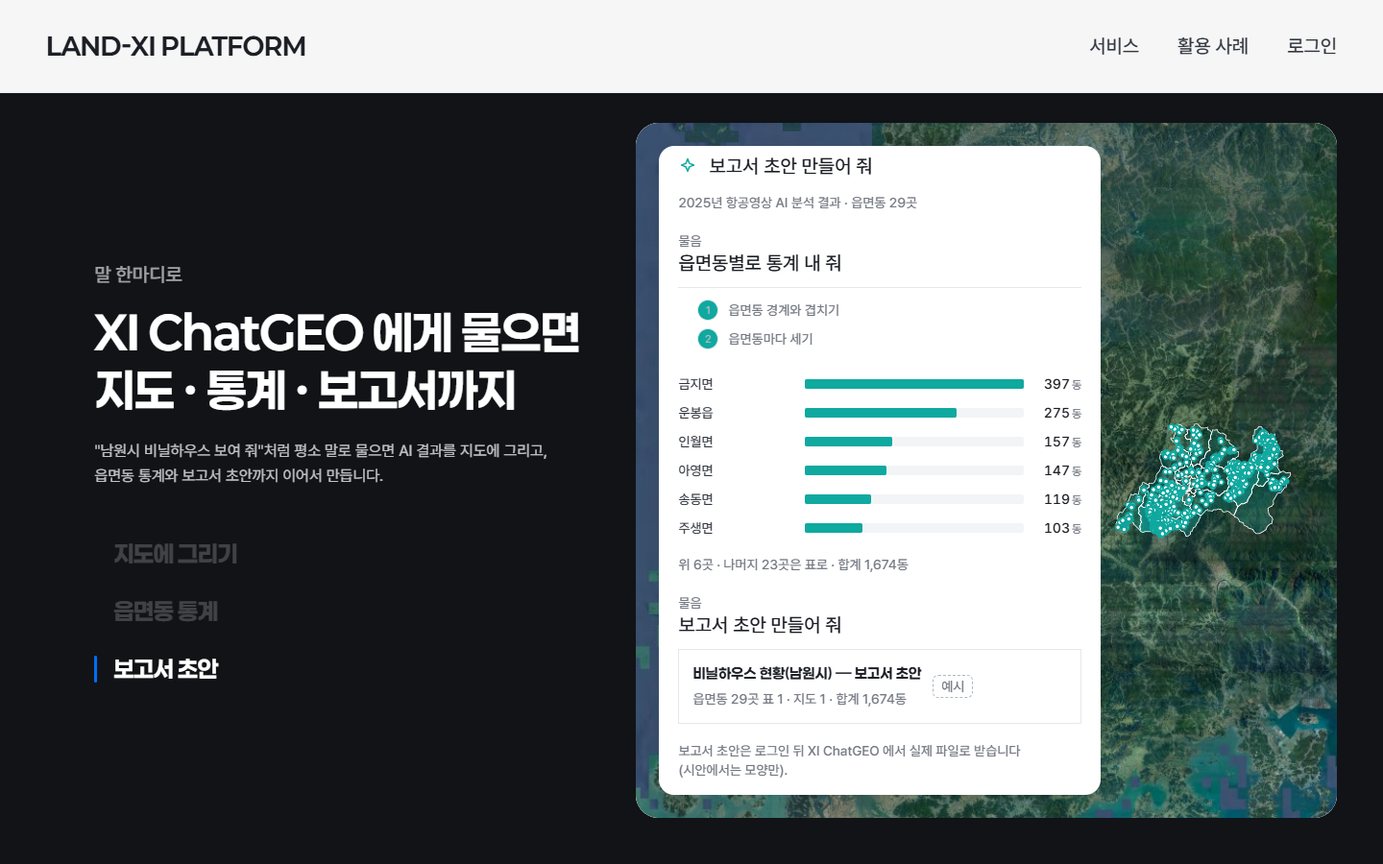
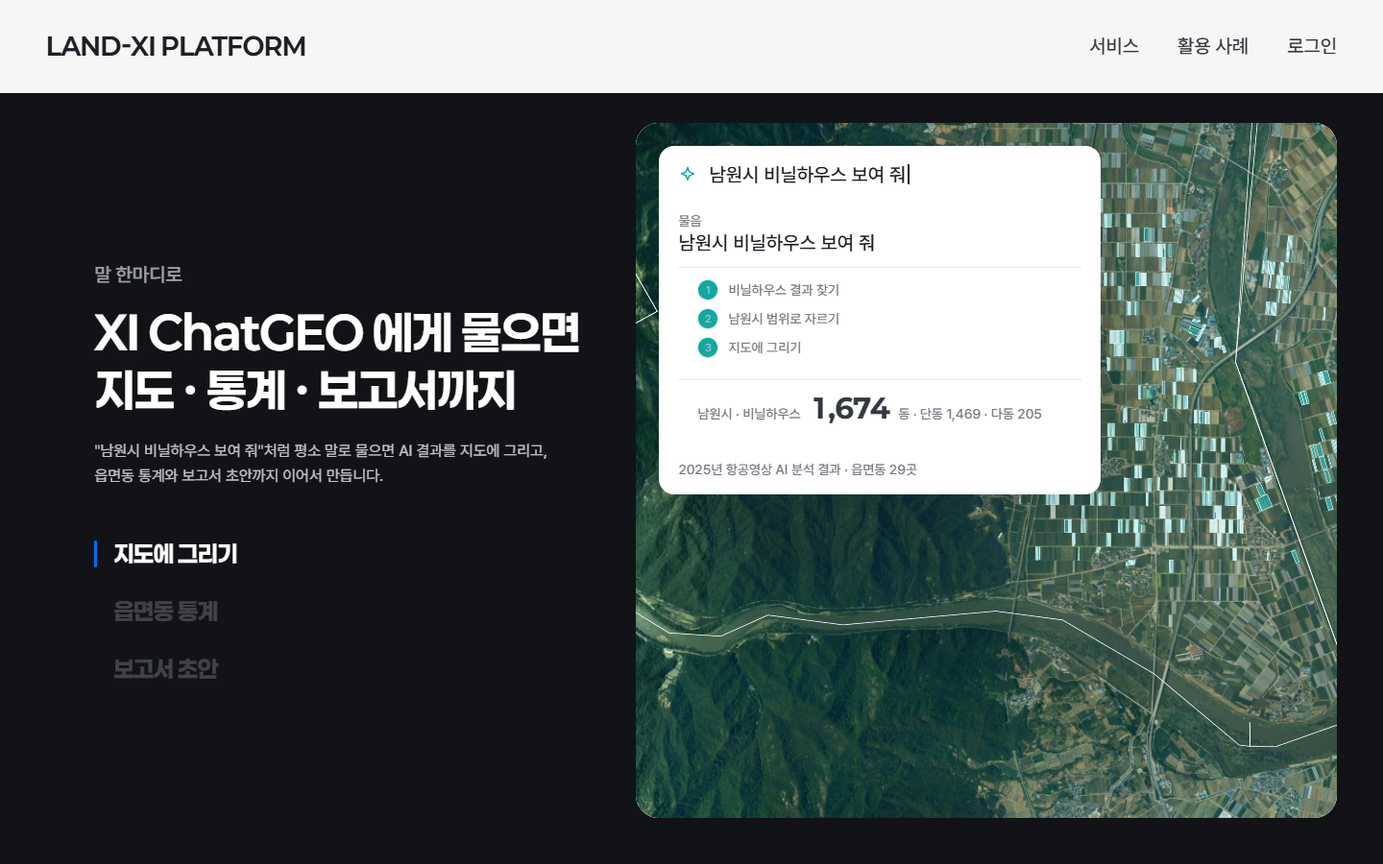
메인 장면 확인 페이지 새 판(셋째 문구 셋 · 넷째 점 빼기)
Claude-Session: https://claude.ai/code/session_012dngviZxpCDduyLESvgdha

Changed region(s): [[0.4375, 0.1244, 0.9688, 0.9644], [0.0625, 0.7467, 0.1562, 0.8089], [0.0625, 0.6222, 0.1875, 0.6533]]

diff --git a/landxi/proto/review/confirm/mainch/index.html b/landxi/proto/review/confirm/mainch/index.html
@@ -48,10 +48,10 @@ footer input{flex:1;min-width:200px;font:15px Pretendard,sans-serif;padding:10px
 <body>
 <main class="w">
 <h1>메인 둘째 · 셋째 · 넷째 장면</h1>
-<p class="lead">움직이는 미리보기를 먼저 보세요: app.land-xi.dev/landxi/proto/review/main-ch1/?v=a (둘째 ⓐ) · ?v=b (둘째 ⓑ) · ?v=c2 (셋째) · ?v=c3 (넷째)</p>
+<p class="lead">셋째 장면은 새 문구 후보 셋, 넷째 장면은 점을 빼고 비닐하우스 면만. 미리보기: app.land-xi.dev/landxi/proto/review/main-ch1/?v=c2&w=1 (w=2 · w=3) · ?v=c3</p>
 <div class="how"><b>보는 법</b> — 항목마다 <b>지금</b>(무엇이 문제인지) · <b>제안</b>(바뀐 뒤) · <b>보는 곳</b>(캡처, 그리고 직접 열어 볼 주소·계정·누를 곳)이 있습니다. 캡처를 누르면 크게 열립니다.<br>
 <b>고르는 법</b> — 버튼을 누르고, 고칠 점이 있으면 한 줄 적어 주세요. 고른 것은 이 브라우저에 저장됩니다. 다 고르시면 아래 <b>결정 복사</b>를 눌러 대화창에 붙여 넣어 주세요. 안 고른 항목은 그대로 두셔도 됩니다.</div>
-<section><h2>메인 둘째 · 셋째 · 넷째 장면 — 전국 실태조사의 다양함 → 필지마다 판단 → 말로 바로(10-09 사용자 말 셋 · 페블 · design-r13/main-ch1)</h2><p class="sub">10월 9일 말 &quot;하천구역 내 건물 하나만 보여 실제 내용과 시각이 안 맞는다 · 전국단위 실태조사를 다양하게 한다는 걸 체감해야&quot; · &quot;현장 확인 선별이 아니라 AI와 지적정보를 합쳐 현장을 확인하지 않고 의사결정하는 행정서비스 · 일반인 말로&quot; · &quot;XI ChatGEO 로 손쉽게 · 비닐하우스가 그려지고 읍면동 통계 · 도표가 나오게&quot;에 따라, v3 메인의 실제 장면을 그대로 복사해 한 장면씩 움직이게 만들었습니다. 숫자는 10월 9일 09:20 서버 값(공개 통계 · 대표 수치 요약)만 썼고, 비닐하우스 1,674동은 결과 파일 값이라 요약 API 에 더해야 합니다(README §1 · §7). 서버에 전국 단위 결과는 하천 하나뿐이고 농지 · 해양쓰레기 · 국토 변화는 시군구 단위라, 시안은 &#x27;전국 같은 기준&#x27;을 지도 모양으로 보이고 지역 결과는 실제 결과 장면을 작게 덧붙였습니다(전국이 아닌 것을 전국처럼 그리지 않음). 움직임 줄이기 설정이면 자동 넘김 · 타자 · 카메라 이동 없이 결과만 보입니다. 아이콘 없음.</p><article class="c" data-id="장면-2" data-t="[화면][Land-XI] 메인 둘째 장면 — 여러 실태조사를 어떻게 보일까"><header><span class="n">장면-2</span><h3>[화면][Land-XI] 메인 둘째 장면 — 여러 실태조사를 어떻게 보일까</h3></header><div class="g"><div class="tx"><p class="k">지금</p><p>지금은 시군구를 청록으로 칠한 전국 지도와 &#x27;하천구역 안 건물 점유 651,478건&#x27; 하나뿐입니다. 하천이라는데 하천도 건물도 안 보이고, 전국에서 여러 실태조사를 한다는 느낌이 없습니다.</p><p class="k">제안</p><p>ⓐ 차례로 — 하천(전국) · 농지(남원) · 해양쓰레기(여수) · 국토 변화(남원)가 5.5초마다 바뀌고, 지도 모양도 그 일에 맞게(하천은 전국 색칠 · 나머지는 그 지역만 진하게) + 큰 숫자 하나 + 창 오른쪽 아래에 실제 결과 장면(하천구역과 그 안 건물 · 경작/비경작 필지 · 쓰레기 점 · 변화 면)을 작게. ⓑ 겹쳐서 — 한 지도에 네 층을 모두 겹쳐 두고(남원 · 여수 라벨), 카드의 목록 4줄(숫자 포함)에서 고르면 그 층만 진해지고 실제 결과 장면이 바뀝니다. 자동 넘김 없음. 제목은 둘 다 &#x27;어떤 실태조사든 / 전국 같은 기준으로&#x27;(후보 3 · README §2). 페블 추천 ⓐ — 첫 방문자는 누르지 않으므로 가만히 봐도 네 가지가 지나가야 체감됩니다.</p><p class="k">보는 곳</p><ul class="wh"><li><a href="https://app.land-xi.dev/landxi/proto/review/main-ch1/?v=a" target="_blank" rel="noopener">app.land-xi.dev/landxi/proto/review/main-ch1/?v=a</a><span>로그인 없이</span><em>ⓐ 차례로 — 가만히 두면 네 가지가 지나감 · 목록을 눌러도 바뀜</em></li><li><a href="https://app.land-xi.dev/landxi/proto/review/main-ch1/?v=b" target="_blank" rel="noopener">app.land-xi.dev/landxi/proto/review/main-ch1/?v=b</a><span>로그인 없이</span><em>ⓑ 겹쳐서 — 카드 목록 4줄을 눌러 고름</em></li><li><a href="https://app.land-xi.dev/landxi/proto/review/main-ch1/?v=a&amp;w=2" target="_blank" rel="noopener">app.land-xi.dev/landxi/proto/review/main-ch1/?v=a&amp;w=2</a><span>로그인 없이</span><em>제목 후보 2 · 3 은 주소 끝 w=2 · w=3</em></li><li><a href="https://app.land-xi.dev/landxi/v3/main/" target="_blank" rel="noopener">app.land-xi.dev/landxi/v3/main/</a><span>로그인 없이</span><em>지금 v3 — 아래로 내려 둘째 장면과 견주기</em></li></ul></div><div class="im"><figure><a href="img/ch1-a-1440.png" target="_blank"><img src="img/ch1-a-1440.png" alt="" loading="lazy"></a></figure><figure><a href="img/ch1-a-390.png" target="_blank"><img src="img/ch1-a-390.png" alt="" loading="lazy"></a></figure><figure><a href="img/ch1-b-1440.png" target="_blank"><img src="img/ch1-b-1440.png" alt="" loading="lazy"></a></figure><figure><a href="img/ch1-b-390.png" target="_blank"><img src="img/ch1-b-390.png" alt="" loading="lazy"></a></figure></div></div><footer><div class="op"><button type="button" data-v="ⓐ 차례로 — 몇 초마다 바뀜 · 큰 숫자 하나 · 실제 결과 장면 작게(추천)">ⓐ 차례로 — 몇 초마다 바뀜 · 큰 숫자 하나 · 실제 결과 장면 작게(추천)</button><button type="button" data-v="ⓑ 겹쳐서 — 한 지도에 모두 · 목록 4줄 숫자 · 고르면 진해짐">ⓑ 겹쳐서 — 한 지도에 모두 · 목록 4줄 숫자 · 고르면 진해짐</button><button type="button" data-v="ⓒ ⓐ로 하되 비닐하우스를 다섯째로(요약 API 에 더한 뒤)">ⓒ ⓐ로 하되 비닐하우스를 다섯째로(요약 API 에 더한 뒤)</button><button type="button" data-v="검토 필요">검토 필요</button></div><input type="text" placeholder="고칠 점이 있으면 한 줄" aria-label="메모"></footer></article><article class="c" data-id="장면-3" data-t="[문구][Land-XI] 메인 셋째 장면 — &#x27;현장 확인 선별&#x27;을 &#x27;현장에 가지 않아도 판단&#x27;으로"><header><span class="n">장면-3</span><h3>[문구][Land-XI] 메인 셋째 장면 — &#x27;현장 확인 선별&#x27;을 &#x27;현장에 가지 않아도 판단&#x27;으로</h3></header><div class="g"><div class="tx"><p class="k">지금</p><p>지금 제목은 &#x27;현장 확인이 필요한 필지 선별&#x27;, 단계는 &#x27;필지 결합 · 대장 대조 · 현장 확인 목록&#x27;, 카드 칩은 &#x27;현장 확인 필요&#x27;, 마지막 줄은 &#x27;현장 확인 목록에 올렸습니다&#x27;입니다. 현장을 보내는 서비스처럼 읽혀 취지(현장 없이 의사결정)와 반대이고, &#x27;필지 결합 · 대장 대조&#x27;는 일반인에게 어색합니다.</p><p class="k">제안</p><p>문구 1(추천): 제목 &#x27;현장에 가지 않아도 / 필지마다 판단&#x27; · 설명 &#x27;AI가 영상에서 본 것을 지적도와 대장에 맞춰, 대장과 다른 필지를 바로 가려냅니다&#x27; · 단계 &#x27;AI가 본 것 → 대장과 견주기 → 판단&#x27; · 카드 칩 &#x27;대장과 다름&#x27; · 판단 줄 &#x27;대장은 논, 실제는 건물 — 농지로 쓰이지 않는 필지로 판단 · 현장에 가지 않고 결과에 반영&#x27;. 문구 2 &#x27;…합쳐 바로 결정 / 영상에서 찾기 → 필지 · 대장에 겹치기 → 결정&#x27;, 문구 3 &#x27;현장 확인 없이 결정하는 행정서비스&#x27;(단정적이라 과장으로 읽힐 수 있음). 지도는 단계마다 청록 면 → 필지 선 겹침 → 판단 줄 켜짐. 숫자 · 필지는 v3 와 같은 서버 표본(예시 표시).</p><p class="k">보는 곳</p><ul class="wh"><li><a href="https://app.land-xi.dev/landxi/proto/review/main-ch1/?v=c2&amp;w=1" target="_blank" rel="noopener">app.land-xi.dev/landxi/proto/review/main-ch1/?v=c2&amp;w=1</a><span>로그인 없이</span><em>문구 1(추천) · 단계가 2.4초마다 넘어감 · 왼쪽 단계를 눌러도 됨</em></li><li><a href="https://app.land-xi.dev/landxi/proto/review/main-ch1/?v=c2&amp;w=2" target="_blank" rel="noopener">app.land-xi.dev/landxi/proto/review/main-ch1/?v=c2&amp;w=2</a><span>로그인 없이</span><em>문구 2</em></li><li><a href="https://app.land-xi.dev/landxi/proto/review/main-ch1/?v=c2&amp;w=3" target="_blank" rel="noopener">app.land-xi.dev/landxi/proto/review/main-ch1/?v=c2&amp;w=3</a><span>로그인 없이</span><em>문구 3</em></li><li><a href="https://app.land-xi.dev/landxi/v3/main/" target="_blank" rel="noopener">app.land-xi.dev/landxi/v3/main/</a><span>로그인 없이</span><em>지금 v3 — 셋째 장면과 견주기</em></li></ul></div><div class="im"><figure><a href="img/ch2-1440.png" target="_blank"><img src="img/ch2-1440.png" alt="" loading="lazy"></a></figure><figure><a href="img/ch2-390.png" target="_blank"><img src="img/ch2-390.png" alt="" loading="lazy"></a></figure></div></div><footer><div class="op"><button type="button" data-v="문구 1 — 현장에 가지 않아도 / 필지마다 판단 · AI가 본 것 → 대장과 견주기 → 판단(추천)">문구 1 — 현장에 가지 않아도 / 필지마다 판단 · AI가 본 것 → 대장과 견주기 → 판단(추천)</button><button type="button" data-v="문구 2 — AI 결과와 지적정보를 / 합쳐 바로 결정 · 영상에서 찾기 → 필지 · 대장에 겹치기 → 결정">문구 2 — AI 결과와 지적정보를 / 합쳐 바로 결정 · 영상에서 찾기 → 필지 · 대장에 겹치기 → 결정</button><button type="button" data-v="문구 3 — 현장 확인 없이 / 결정하는 행정서비스 · AI 분석 → 대장 대조 → 결론">문구 3 — 현장 확인 없이 / 결정하는 행정서비스 · AI 분석 → 대장 대조 → 결론</button><button type="button" data-v="검토 필요">검토 필요</button></div><input type="text" placeholder="고칠 점이 있으면 한 줄" aria-label="메모"></footer></article><article class="c" data-id="장면-4" data-t="[화면][Land-XI] 메인 넷째 장면 — XI ChatGEO 에게 말로: 지도 → 읍면동 통계 → 보고서 초안"><header><span class="n">장면-4</span><h3>[화면][Land-XI] 메인 넷째 장면 — XI ChatGEO 에게 말로: 지도 → 읍면동 통계 → 보고서 초안</h3></header><div class="g"><div class="tx"><p class="k">지금</p><p>지금은 질문 한 줄(&#x27;대장상 농지인데 AI가 건물로 본 필지&#x27;) → 계획 3줄 → 숫자 4,140 → 읍면동 면을 칠하는 데서 끝납니다(단순 폴리곤). XI ChatGEO 라는 이름도, 결과가 눈에 보이는 장면도, 통계 · 도표도 없습니다.</p><p class="k">제안</p><p>세 물음이 차례로: ① &#x27;남원시 비닐하우스 보여 줘&#x27; → 계획 3줄 → &#x27;남원시 · 비닐하우스 1,674동(단동 1,469 · 다동 205)&#x27; + 지도에 비닐하우스 점이 찍히고 가장 많은 금지면으로 들어가 실제 동 면(원판 모델 결과)이 보임 → ② &#x27;읍면동별로 통계 내 줘&#x27; → 채팅 안 가로 막대 6줄(금지면 397 · 운봉읍 275 · …) + 읍면동이 동 수만큼 진해짐 → ③ &#x27;보고서 초안 만들어 줘&#x27; → 파일 줄(비닐하우스 현황 · 표 1 · 지도 1) + &#x27;예시&#x27; 도장(실제 파일은 로그인 뒤). 제목 후보 1(추천) &#x27;XI ChatGEO 에게 물으면 / 지도 · 통계 · 보고서까지&#x27;, 2 &#x27;묻기만 하면 / 지도가 답합니다&#x27;, 3 &#x27;공간을 아는 AI, / XI ChatGEO&#x27;. 채팅 카드는 창 왼쪽 460, 지도는 오른쪽에 남겨 결과가 숨지 않게. 검정 바탕은 UX-6 확인대로 유지. 비닐하우스 1,674동은 결과 파일 값 — 구현 때 요약 API 에 더해 한 출처로.</p><p class="k">보는 곳</p><ul class="wh"><li><a href="https://app.land-xi.dev/landxi/proto/review/main-ch1/?v=c3&amp;w=1" target="_blank" rel="noopener">app.land-xi.dev/landxi/proto/review/main-ch1/?v=c3&amp;w=1</a><span>로그인 없이</span><em>문구 1(추천) · 세 물음이 약 15초에 걸쳐 차례로 · 왼쪽 단계를 눌러 되돌림</em></li><li><a href="https://app.land-xi.dev/landxi/proto/review/main-ch1/?v=c3&amp;w=2" target="_blank" rel="noopener">app.land-xi.dev/landxi/proto/review/main-ch1/?v=c3&amp;w=2</a><span>로그인 없이</span><em>문구 2</em></li><li><a href="https://app.land-xi.dev/landxi/proto/review/main-ch1/?v=c3&amp;w=3" target="_blank" rel="noopener">app.land-xi.dev/landxi/proto/review/main-ch1/?v=c3&amp;w=3</a><span>로그인 없이</span><em>문구 3</em></li><li><a href="https://app.land-xi.dev/landxi/v3/main/" target="_blank" rel="noopener">app.land-xi.dev/landxi/v3/main/</a><span>로그인 없이</span><em>지금 v3 — 넷째 장면과 견주기</em></li></ul></div><div class="im"><figure><a href="img/ch3-1440.png" target="_blank"><img src="img/ch3-1440.png" alt="" loading="lazy"></a></figure><figure><a href="img/ch3-390.png" target="_blank"><img src="img/ch3-390.png" alt="" loading="lazy"></a></figure></div></div><footer><div class="op"><button type="button" data-v="ⓐ 세 물음 모두(지도 → 통계 → 보고서 초안 &#x27;예시&#x27;) · 문구 1(추천)">ⓐ 세 물음 모두(지도 → 통계 → 보고서 초안 &#x27;예시&#x27;) · 문구 1(추천)</button><button type="button" data-v="ⓑ 두 물음만(지도 → 통계) — 보고서 초안은 실제 파일이 나올 때 더함">ⓑ 두 물음만(지도 → 통계) — 보고서 초안은 실제 파일이 나올 때 더함</button><button type="button" data-v="ⓒ 제목만 문구 2 또는 3 으로(장면 구성은 ⓐ)">ⓒ 제목만 문구 2 또는 3 으로(장면 구성은 ⓐ)</button><button type="button" data-v="검토 필요">검토 필요</button></div><input type="text" placeholder="고칠 점이 있으면 한 줄" aria-label="메모"></footer></article></section>
+<section><h2>메인 둘째 · 셋째 · 넷째 장면 — 전국 실태조사의 다양함 → 필지마다 판단 → 말로 바로(10-09 사용자 말 셋 · 페블 · design-r13/main-ch1)</h2><p class="sub">10월 9일 말 &quot;하천구역 내 건물 하나만 보여 실제 내용과 시각이 안 맞는다 · 전국단위 실태조사를 다양하게 한다는 걸 체감해야&quot; · &quot;현장 확인 선별이 아니라 AI와 지적정보를 합쳐 현장을 확인하지 않고 의사결정하는 행정서비스 · 일반인 말로&quot; · &quot;XI ChatGEO 로 손쉽게 · 비닐하우스가 그려지고 읍면동 통계 · 도표가 나오게&quot;에 따라, v3 메인의 실제 장면을 그대로 복사해 한 장면씩 움직이게 만들었습니다. 숫자는 10월 9일 09:20 서버 값(공개 통계 · 대표 수치 요약)만 썼고, 비닐하우스 1,674동은 결과 파일 값이라 요약 API 에 더해야 합니다(README §1 · §7). 서버에 전국 단위 결과는 하천 하나뿐이고 농지 · 해양쓰레기 · 국토 변화는 시군구 단위라, 시안은 &#x27;전국 같은 기준&#x27;을 지도 모양으로 보이고 지역 결과는 실제 결과 장면을 작게 덧붙였습니다(전국이 아닌 것을 전국처럼 그리지 않음). 움직임 줄이기 설정이면 자동 넘김 · 타자 · 카메라 이동 없이 결과만 보입니다. 아이콘 없음.</p><article class="c" data-id="장면-2" data-t="[화면][Land-XI] 메인 둘째 장면 — 여러 실태조사를 어떻게 보일까"><header><span class="n">장면-2</span><h3>[화면][Land-XI] 메인 둘째 장면 — 여러 실태조사를 어떻게 보일까</h3></header><div class="g"><div class="tx"><p class="k">지금</p><p>지금은 시군구를 청록으로 칠한 전국 지도와 &#x27;하천구역 안 건물 점유 651,478건&#x27; 하나뿐입니다. 하천이라는데 하천도 건물도 안 보이고, 전국에서 여러 실태조사를 한다는 느낌이 없습니다.</p><p class="k">제안</p><p>10월 9일 답: 문구는 2번(&#x27;전국 어디서나 / 여러 실태조사를 한 번에&#x27;)으로 — 미리보기 기본값으로 고정했습니다. &#x27;지금 예시가 너무 작은 범위 — 분석을 전국으로 해서 만드는 과정을 검토해볼까&#x27;는 사용자가 따로 검토 중이라 이 판에서는 손대지 않았습니다. ⓐ 차례로 — 하천(전국) · 농지(남원) · 해양쓰레기(여수) · 국토 변화(남원)가 5.5초마다 바뀌고, 지도 모양도 그 일에 맞게 + 큰 숫자 하나 + 창 오른쪽 아래에 실제 결과 장면을 작게. ⓑ 겹쳐서 — 한 지도에 네 층을 모두 겹쳐 두고 카드의 목록 4줄에서 고르면 그 층만 진해집니다. 페블 추천 ⓐ.</p><p class="k">보는 곳</p><ul class="wh"><li><a href="https://app.land-xi.dev/landxi/proto/review/main-ch1/?v=a" target="_blank" rel="noopener">app.land-xi.dev/landxi/proto/review/main-ch1/?v=a</a><span>로그인 없이</span><em>ⓐ 차례로 — 가만히 두면 네 가지가 지나감 · 목록을 눌러도 바뀜</em></li><li><a href="https://app.land-xi.dev/landxi/proto/review/main-ch1/?v=b" target="_blank" rel="noopener">app.land-xi.dev/landxi/proto/review/main-ch1/?v=b</a><span>로그인 없이</span><em>ⓑ 겹쳐서 — 카드 목록 4줄을 눌러 고름</em></li><li><a href="https://app.land-xi.dev/landxi/proto/review/main-ch1/?v=a&amp;w=1" target="_blank" rel="noopener">app.land-xi.dev/landxi/proto/review/main-ch1/?v=a&amp;w=1</a><span>로그인 없이</span><em>다른 제목 후보는 주소 끝 w=1 · w=3(기본은 확정한 2)</em></li><li><a href="https://app.land-xi.dev/landxi/v3/main/" target="_blank" rel="noopener">app.land-xi.dev/landxi/v3/main/</a><span>로그인 없이</span><em>지금 v3 — 아래로 내려 둘째 장면과 견주기</em></li></ul></div><div class="im"><figure><a href="img/ch1-a-1440.png" target="_blank"><img src="img/ch1-a-1440.png" alt="" loading="lazy"></a></figure><figure><a href="img/ch1-a-390.png" target="_blank"><img src="img/ch1-a-390.png" alt="" loading="lazy"></a></figure><figure><a href="img/ch1-b-1440.png" target="_blank"><img src="img/ch1-b-1440.png" alt="" loading="lazy"></a></figure><figure><a href="img/ch1-b-390.png" target="_blank"><img src="img/ch1-b-390.png" alt="" loading="lazy"></a></figure></div></div><footer><div class="op"><button type="button" data-v="ⓐ 차례로 — 몇 초마다 바뀜 · 큰 숫자 하나 · 실제 결과 장면 작게(추천)">ⓐ 차례로 — 몇 초마다 바뀜 · 큰 숫자 하나 · 실제 결과 장면 작게(추천)</button><button type="button" data-v="ⓑ 겹쳐서 — 한 지도에 모두 · 목록 4줄 숫자 · 고르면 진해짐">ⓑ 겹쳐서 — 한 지도에 모두 · 목록 4줄 숫자 · 고르면 진해짐</button><button type="button" data-v="ⓒ ⓐ로 하되 비닐하우스를 다섯째로(요약 API 에 더한 뒤)">ⓒ ⓐ로 하되 비닐하우스를 다섯째로(요약 API 에 더한 뒤)</button><button type="button" data-v="검토 필요">검토 필요</button></div><input type="text" placeholder="고칠 점이 있으면 한 줄" aria-label="메모"></footer></article><article class="c" data-id="장면-3" data-t="[문구][Land-XI] 메인 셋째 장면 — 고정밀 영상 + AI 분석 + 행정 정보 융합으로 바로 판단(다시 쓴 후보 셋)"><header><span class="n">장면-3</span><h3>[문구][Land-XI] 메인 셋째 장면 — 고정밀 영상 + AI 분석 + 행정 정보 융합으로 바로 판단(다시 쓴 후보 셋)</h3></header><div class="g"><div class="tx"><p class="k">지금</p><p>10월 9일 답 &#x27;문구가 아직도 마음에 안 든다 — 고정밀 영상과 AI 기술로 분석하고 행정 정보를 융합하여 행정 혁신과 업무의 부담을 줄인다는 취지를 잘 살려야&#x27;로 첫 판 후보(현장에 가지 않아도 / 필지마다 판단 등)는 반려. 첫 판은 &#x27;현장에 안 간다&#x27;만 말했고 무엇으로(고정밀 영상 · AI) · 무엇과 합쳐(행정 정보) · 무엇이 좋아지나(혁신 · 부담 줄임)가 빠져 있었습니다.</p><p class="k">제안</p><p>서로 결이 다른 셋 — 원칙 135 에 따라 &#x27;현장 확인&#x27; 개념 없이 AI 분석 결과와 행정 정보 융합이 주인공입니다. 후보 1 결과 중심(추천): 제목 &#x27;고정밀 영상을 AI가 읽고 / 행정 정보와 맞춰 바로 판단&#x27; · 설명 &#x27;AI가 찾은 건물과 면적을 지적 · 대장 정보와 겹쳐 필지마다 결론이 나옵니다. 실태조사가 빨라지고 담당자 부담이 줄어듭니다&#x27; · 단계 &#x27;AI 영상 분석 → 행정 정보와 맞추기 → 바로 판단&#x27;. 후보 2 과정 중심: &#x27;영상 · AI · 행정 정보를 / 하나로 합친 실태조사&#x27; · &#x27;고정밀 항공영상을 AI가 분석하고 지적 · 대장 정보와 겹쳐, 필지마다 실태를 그 자리에서 확인합니다&#x27; · &#x27;AI 영상 분석 → 지적 · 대장과 겹치기 → 실태 확인&#x27;. 후보 3 업무 부담 중심: &#x27;AI가 먼저 분석하고 / 담당자는 결정만&#x27; · &#x27;고정밀 영상에서 AI가 찾은 결과를 행정 정보와 맞춰 주니, 담당자는 필지마다 결정만 하면 됩니다&#x27; · &#x27;AI가 영상 분석 → 행정 정보와 맞춤 → 담당자 결정&#x27;. 추천 1 — 취지의 네 요소(고정밀 영상 · AI · 행정 정보 · 바로 판단)가 제목에 다 있고 설명이 &#x27;빨라지고 부담 줄어듦&#x27;을 말합니다. 3은 AI 가 주인공임이 가장 분명합니다. 카드 칩 &#x27;대장과 다름&#x27; · 판단 줄 &#x27;대장은 논, AI 분석은 건물&#x27; · 지도 단계(청록 면 → 필지 선 겹침 → 판단 줄)는 공통.</p><p class="k">보는 곳</p><ul class="wh"><li><a href="https://app.land-xi.dev/landxi/proto/review/main-ch1/?v=c2&amp;w=1" target="_blank" rel="noopener">app.land-xi.dev/landxi/proto/review/main-ch1/?v=c2&amp;w=1</a><span>로그인 없이</span><em>후보 1(추천) · 단계가 2.4초마다 넘어감 · 왼쪽 단계를 눌러도 됨</em></li><li><a href="https://app.land-xi.dev/landxi/proto/review/main-ch1/?v=c2&amp;w=2" target="_blank" rel="noopener">app.land-xi.dev/landxi/proto/review/main-ch1/?v=c2&amp;w=2</a><span>로그인 없이</span><em>후보 2</em></li><li><a href="https://app.land-xi.dev/landxi/proto/review/main-ch1/?v=c2&amp;w=3" target="_blank" rel="noopener">app.land-xi.dev/landxi/proto/review/main-ch1/?v=c2&amp;w=3</a><span>로그인 없이</span><em>후보 3</em></li><li><a href="https://app.land-xi.dev/landxi/v3/main/" target="_blank" rel="noopener">app.land-xi.dev/landxi/v3/main/</a><span>로그인 없이</span><em>지금 v3 — 셋째 장면과 견주기</em></li></ul></div><div class="im"><figure><a href="img/ch2-w1-1440.png" target="_blank"><img src="img/ch2-w1-1440.png" alt="" loading="lazy"></a></figure><figure><a href="img/ch2-w2-1440.png" target="_blank"><img src="img/ch2-w2-1440.png" alt="" loading="lazy"></a></figure><figure><a href="img/ch2-w3-1440.png" target="_blank"><img src="img/ch2-w3-1440.png" alt="" loading="lazy"></a></figure></div></div><footer><div class="op"><button type="button" data-v="후보 1 — 고정밀 영상을 AI가 읽고 / 행정 정보와 맞춰 바로 판단(추천)">후보 1 — 고정밀 영상을 AI가 읽고 / 행정 정보와 맞춰 바로 판단(추천)</button><button type="button" data-v="후보 2 — 영상 · AI · 행정 정보를 / 하나로 합친 실태조사">후보 2 — 영상 · AI · 행정 정보를 / 하나로 합친 실태조사</button><button type="button" data-v="후보 3 — AI가 먼저 분석하고 / 담당자는 결정만">후보 3 — AI가 먼저 분석하고 / 담당자는 결정만</button><button type="button" data-v="검토 필요">검토 필요</button></div><input type="text" placeholder="고칠 점이 있으면 한 줄" aria-label="메모"></footer></article><article class="c" data-id="장면-4" data-t="[화면][Land-XI] 메인 넷째 장면 — XI ChatGEO 에게 말로: 지도 → 읍면동 통계 → 보고서 초안(점 빼고 면만 · 구현 확인)"><header><span class="n">장면-4</span><h3>[화면][Land-XI] 메인 넷째 장면 — XI ChatGEO 에게 말로: 지도 → 읍면동 통계 → 보고서 초안(점 빼고 면만 · 구현 확인)</h3></header><div class="g"><div class="tx"><p class="k">만든 것</p><p>남원시 전체에 찍던 점(동그라미) 층을 없앴습니다 — 어느 확대 단계에서도 점이 없습니다. 비닐하우스는 AI 가 찾은 동 면만 보이며, 청록 면을 진하게 하고 흰 테두리로 영상과 대비를 높였습니다. ① 지도에 그리기에서 카메라가 비닐하우스가 가장 모인 곳(약 1.5 × 1 km)으로 들어가 면이 면으로 보이고, ② 읍면동 통계에서 남원시로 돌아오면 읍면동 색칠만 남습니다. 나머지(세 물음 · 막대 · 보고서 초안 &#x27;예시&#x27; · 검정 바탕)는 확정한 대로입니다. 미리보기 시안에만 적용했고 v3 메인 반영은 확인 뒤입니다.</p><p class="k">보는 곳</p><ul class="wh"><li><a href="https://app.land-xi.dev/landxi/proto/review/main-ch1/?v=c3" target="_blank" rel="noopener">app.land-xi.dev/landxi/proto/review/main-ch1/?v=c3</a><span>로그인 없이</span><em>문구 1 · 세 물음이 약 15초에 걸쳐 차례로 · 왼쪽 &#x27;지도에 그리기&#x27;를 누르면 ① 상태로 되돌림</em></li><li><a href="https://app.land-xi.dev/landxi/v3/main/" target="_blank" rel="noopener">app.land-xi.dev/landxi/v3/main/</a><span>로그인 없이</span><em>지금 v3 — 넷째 장면과 견주기</em></li></ul></div><div class="im"><figure><a href="img/now-ch3-1440.png" target="_blank"><img src="img/now-ch3-1440.png" alt="" loading="lazy"></a><figcaption>지금</figcaption></figure><figure><a href="img/ch3-1440.png" target="_blank"><img src="img/ch3-1440.png" alt="" loading="lazy"></a></figure></div></div><footer><div class="op"><button type="button" data-v="완료">완료</button><button type="button" data-v="다시">다시</button></div><input type="text" placeholder="고칠 점이 있으면 한 줄" aria-label="메모"></footer></article></section>
 </main>
 <div class="bar"><b id="cnt">0 / 3 고름</b><button type="button" id="copy">결정 복사</button><small id="msg"></small></div>
 <script>
